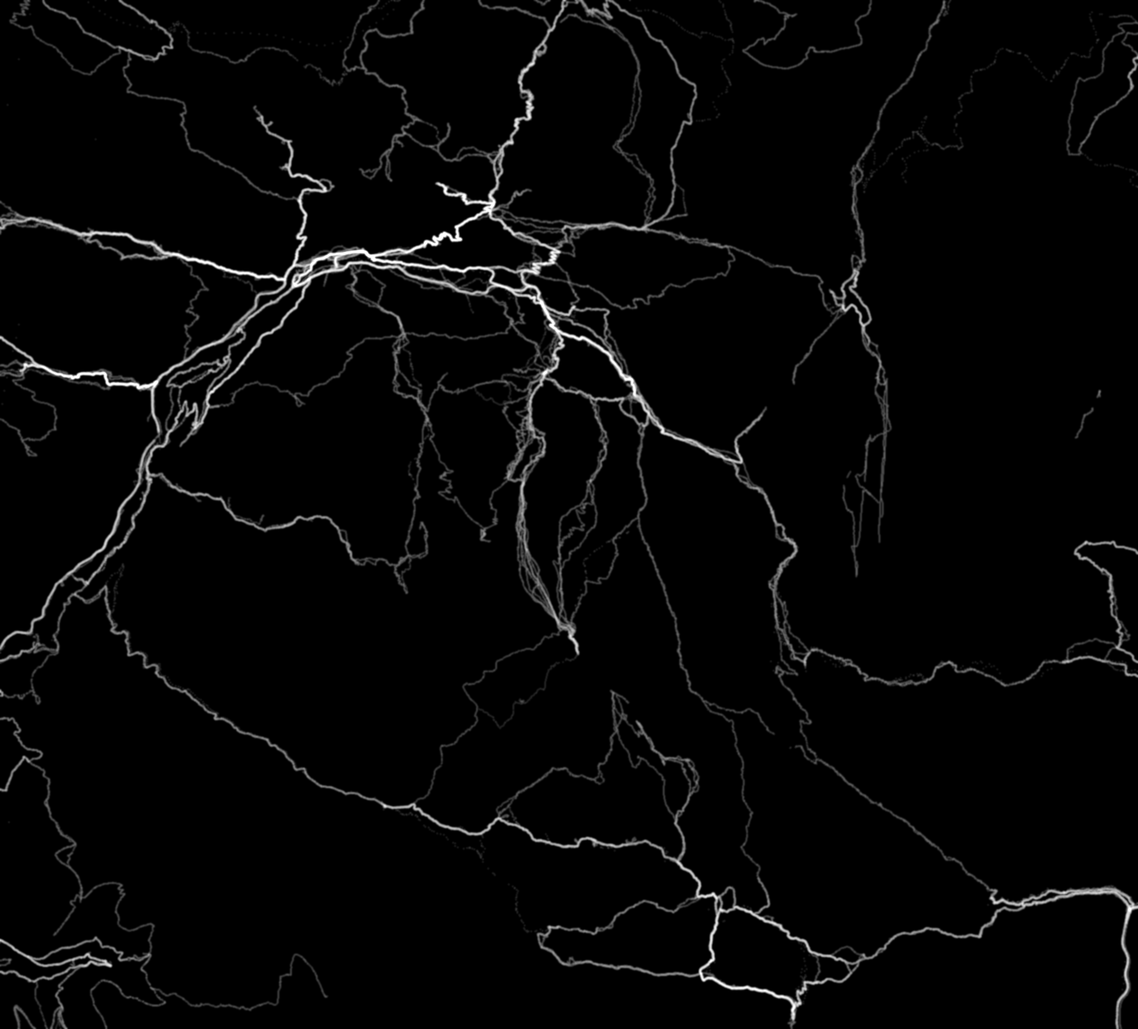
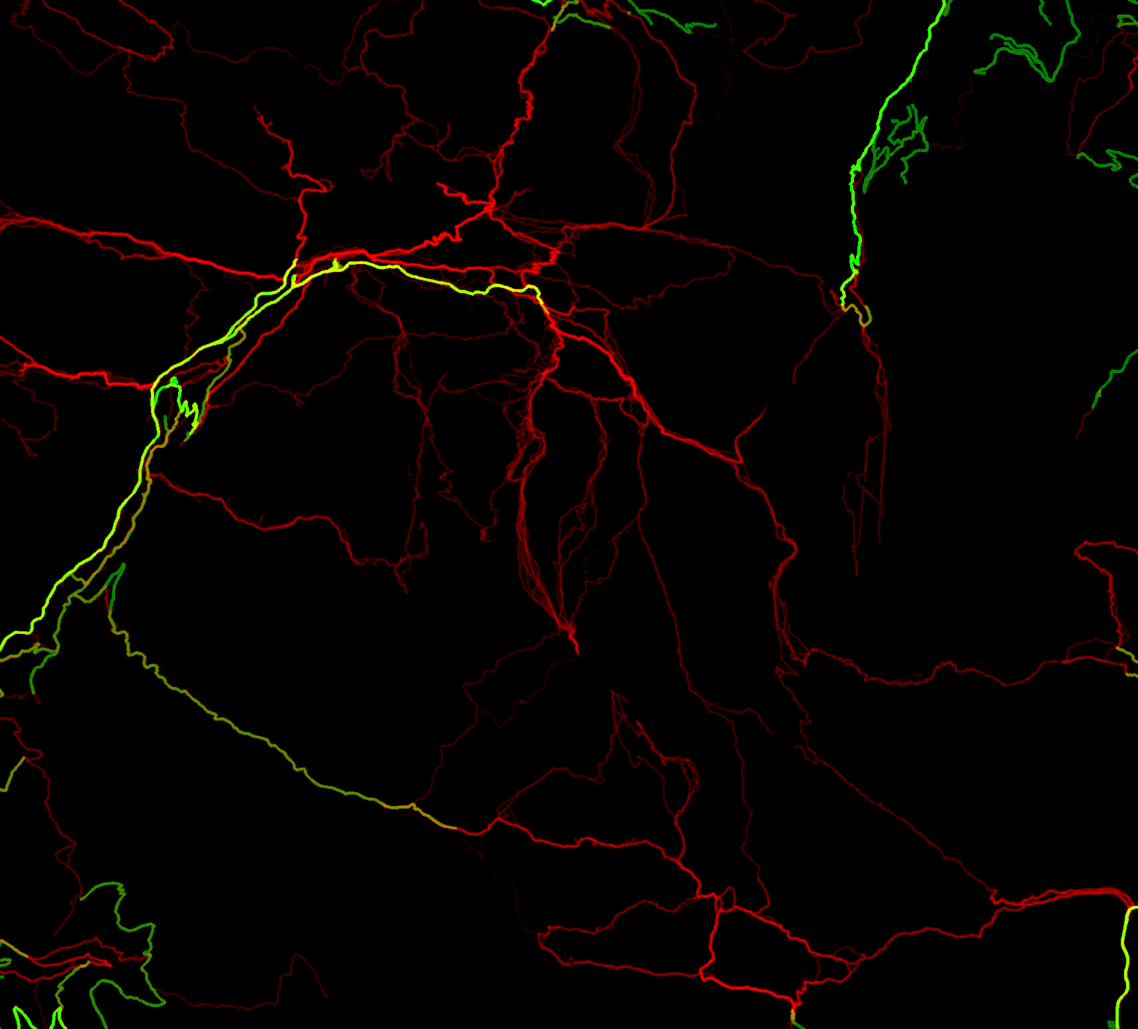
Capa de calor: más fina de lejos, tenue con pocas trazas y amarilla con muchas, carreteras y pistas con su color, toque que dice cuántas trazas pasan y preparada para varias zonas
Claude-Session: https://claude.ai/code/session_01FYGQaz8b8ccFR2s5Q8cSVz

diff --git a/js/main.js b/js/main.js
@@ -1,7 +1,7 @@
 import * as THREE from 'three';
 import { OrbitControls } from 'three/addons/OrbitControls.js';
 import { makeGeo } from './geo.js?v=2';
-import { Terrain } from './terrain.js?v=25';
+import { Terrain, NCALOR } from './terrain.js?v=26';
 import { crearVegetacion } from './vegetacion.js?v=8';
 import { crearCumbres } from './cumbres.js?v=47';
 import { crearBanderines, leerHechos, guardarHechos } from './banderines.js?v=5';
@@ -16,7 +16,7 @@ import { crearPanorama } from './panorama.js?v=9';
 import { crearUbicacion } from './ubicacion.js?v=7';
 import { crearRealidad } from './realidad.js?v=4';
 import { crearSelector } from './selector.js?v=6';
-import { t, EN_INGLES } from './i18n.js?v=10';
+import { t, EN_INGLES } from './i18n.js?v=11';
 import { reglaTexto, reglaCampo } from './i18n_reglas.js?v=4';
 
 const $ = (s) => document.querySelector(s);
@@ -281,8 +281,16 @@ async function boot() {
     }
     return null;
   }
+  const calor = { leer: () => null };   // capa «Por dónde pasa la gente» (se rellena más abajo): trazas y tipo de vía en un punto
+  const textoCalor = (c) => !c ? '' : `<small class="pico-calor">${c.trazas > 1 ? t('Por aquí pasan unas {n} trazas GPS', { n: fmt(c.trazas) }) : t('Por aquí pasa una traza GPS (puede ser una sola persona)')}${c.via ? ` · ${t(c.via === 'carretera' ? 'carretera' : 'pista')}` : ''}</small>`;
   async function nombrePico(cx, cy) {
     const pt = puntoDelRelieve(cx, cy); if (!pt) return;
+    const cal = calor.leer(pt.x, pt.z);
+    if (cal) {   // con la capa encendida, el toque sobre un camino dice cuánta gente pasa (en el punto tocado, no en el pico)
+      clearTimeout(picoTimer); picoSel = { x: pt.x, y: geo.heightAt(pt.x, pt.z), z: pt.z };
+      picoEl.innerHTML = textoCalor(cal); picoEl.hidden = false; picoEl.classList.remove('is-hidden');
+      picoTimer = setTimeout(() => { picoSel = null; picoEl.hidden = true; }, 7000); return;
+    }
     const lista = await cargaPicos(); if (!lista.length) return;
     const dist = Math.hypot(pt.x - camera.position.x, pt.z - camera.position.z);
     const radio = clamp(dist * 0.05, 500, 1800);   // cuanto más lejos está la cámara, más margen al tocar
@@ -1161,20 +1169,39 @@ async function boot() {
   setSun(+(store.get('tresmiles-luz') ?? 3) % SUN.length || 0);   // por defecto, la hora real
   setInterval(() => { if (S.sun === 3) setSun(3); }, 60e3);
 
-  // — «Por dónde pasa la gente»: mapa de calor de las trazas GPS públicas de OpenStreetMap (tools/build_calor.py), pintado sobre el relieve —
-  // ayuda a ver los caminos más pisados (por ejemplo, para volver a una senda conocida si te sales de la ruta); no dice si un paso es seguro
+  // — «Por dónde pasa la gente»: mapa de calor de las trazas GPS públicas de OpenStreetMap (tools/build_calor.py), pintado sobre el relieve por zonas —
+  // ayuda a ver los caminos más pisados (por ejemplo, para volver a una senda conocida si te sales de la ruta); no dice si un paso es seguro.
+  // Cada PNG lleva en rojo la densidad (log de las trazas) y en verde el tipo de vía de OSM (carretera / pista): las carreteras se dicen, no se quitan.
   fetch(`data/calor/index.json?dv=${window.DATOS_V || 0}`).then((r) => (r.ok ? r.json() : null)).then((idx) => {
-    const z = idx && Object.values(idx)[0]; if (!z) return;   // de momento, una zona (macizo del Aneto)
+    const zonas = Object.values(idx ?? {}).slice(0, NCALOR); if (!zonas.length) return;
     const b = $('#btn-calor'); b.hidden = false;
-    const [w, s, e, n] = z.caja, a = geo.toXZ(w, n), c = geo.toXZ(e, s), K = terrain.clima;
-    K.uCalorB.value.set(a.x, a.z, c.x, c.z);
+    const K = terrain.clima, lienzo = document.createElement('canvas'), cx = lienzo.getContext('2d', { willReadFrequently: true }); lienzo.width = lienzo.height = 9;
+    zonas.forEach((z, i) => { const [w, s, e, n] = z.caja, a = geo.toXZ(w, n), c = geo.toXZ(e, s); z.b = [a.x, a.z, c.x, c.z]; K.uCalorB.value[i].set(...z.b); });
     let on = false, cargando = null, tf = null;
+    const carga = () => (cargando ??= Promise.all(zonas.map((z, i) => new Promise((res) => {
+      const img = new Image(); img.onload = () => { const tx = new THREE.Texture(img); tx.colorSpace = THREE.NoColorSpace; tx.needsUpdate = true; K.uCalor.value[i] = tx; z.img = img; res(); }; img.onerror = () => res();
+      img.src = `${z.png}?dv=${window.DATOS_V || 0}`;
+    }))));
+    // lo que hay en un punto: trazas (máximo en ±40 m, el dedo no es preciso) y tipo de vía
+    calor.leer = (x, z0) => {
+      if (!on) return null;
+      for (const z of zonas) {
+        const [x0, zz0, x1, zz1] = z.b; if (!z.img || x < x0 || x > x1 || z0 < zz0 || z0 > zz1) continue;
+        const u = Math.round((x - x0) / (x1 - x0) * z.img.width) - 4, v = Math.round((z0 - zz0) / (zz1 - zz0) * z.img.height) - 4;
+        cx.clearRect(0, 0, 9, 9); cx.drawImage(z.img, u, v, 9, 9, 0, 0, 9, 9);
+        const d = cx.getImageData(0, 0, 9, 9).data; let r = 0, g = 0;
+        for (let k = 0; k < d.length; k += 4) if (d[k] > r) { r = d[k]; g = d[k + 1]; }
+        if (r < 12) return null;
+        return { trazas: Math.max(1, Math.round(Math.expm1(r / 255 * z.escala) / 2.2)), via: g > 190 ? 'carretera' : g > 64 ? 'pista' : null };
+      }
+      return null;
+    };
     const fundido = (to) => { cancelAnimationFrame(tf); const v0 = K.uCalorK.value, t0 = performance.now(); const paso = (t) => { const k = Math.min(1, (t - t0) / 600); K.uCalorK.value = v0 + (to - v0) * k; COLOR_RUTA.actual.lerpColors(COLOR_RUTA.naranja, COLOR_RUTA.verde, K.uCalorK.value); if (k < 1) tf = requestAnimationFrame(paso); }; tf = requestAnimationFrame(paso); };
     const pon = async (v) => {
       on = v; b.setAttribute('aria-pressed', on); store.set('tresmiles-calor', on ? '1' : '0');
-      if (on && !K.uCalor.value) { cargando ??= new THREE.TextureLoader().loadAsync(`${z.png}?dv=${window.DATOS_V || 0}`).then((tx) => { tx.colorSpace = THREE.NoColorSpace; K.uCalor.value = tx; }).catch(() => {}); await cargando; }
+      if (on) await carga();
       if (on !== v) return;
-      fundido(on && K.uCalor.value ? 1 : 0);
+      fundido(on ? 1 : 0);
     };
     b.addEventListener('click', () => { sonido.fx('toque'); pon(!on); b.classList.add('show-tip'); clearTimeout(b._t); b._t = setTimeout(() => b.classList.remove('show-tip'), 1600); });
     if (store.get('tresmiles-calor') === '1') pon(true);
@@ -1327,7 +1354,7 @@ async function boot() {
       <h3>Visits</h3>
       <p>This website uses <a href="https://www.goatcounter.com" target="_blank" rel="noopener">GoatCounter</a>, a visit counter without cookies that stores no personal data and does not follow you around other websites: it only counts how many times each page is opened.</p>
       <h3>Where people go</h3>
-      <p>The footprints button lights up, in orange and yellow, the places where many people have passed with a GPS (for now, around the Aneto). It is made from the public GPS traces that people upload to <a href="https://www.openstreetmap.org/traces" target="_blank" rel="noopener">© OpenStreetMap</a>: the brighter, the more traces. It helps you spot the most trodden paths, for example to get back to a known trail if you leave your route. <b>It does not say whether a passage is safe</b>: there are traces across glaciers, snowfields and gullies, and from people who also got lost. A faint glow can be a single person.</p>
+      <p>The footprints button lights up the places where people have passed with a GPS: faint orange for a few traces and yellow for many. Roads are shown in greyish blue and dirt tracks in sand, because many people also record GPS in the car. Tap a path to see how many traces pass there; while it is on, the example route turns green. It is made from the public GPS traces that people upload to <a href="https://www.openstreetmap.org/traces" target="_blank" rel="noopener">© OpenStreetMap</a>: the brighter, the more traces. It helps you spot the most trodden paths, for example to get back to a known trail if you leave your route. <b>It does not say whether a passage is safe</b>: there are traces across glaciers, snowfields and gullies, and from people who also got lost. A faint glow can be a single person.</p>
       <h3>Safety</h3>
       <p>This website does not replace a guidebook, a conditions report or experience in high mountains. Always check the forecast and the state of the route before setting out.</p>`;
       return;
@@ -1368,7 +1395,7 @@ async function boot() {
       <h3>Visitas</h3>
       <p>Esta web usa <a href="https://www.goatcounter.com" target="_blank" rel="noopener">GoatCounter</a>, un contador de visitas sin cookies que no guarda datos personales ni te sigue por otras webs: solo cuenta cuántas veces se abre cada página.</p>
       <h3>Por dónde pasa la gente</h3>
-      <p>El botón de las huellas ilumina en naranja y amarillo los sitios por donde ha pasado mucha gente con GPS (de momento, en el entorno del Aneto). Está hecho con las trazas GPS públicas que la gente sube a <a href="https://www.openstreetmap.org/traces" target="_blank" rel="noopener">© OpenStreetMap</a>: cuanto más brilla, más trazas. Sirve para ver los caminos más pisados, por ejemplo para volver a una senda conocida si te sales de la ruta. <b>No dice si un paso es seguro</b>: hay trazas por glaciares, neveros y canales, y de gente que también se perdió. Un brillo débil puede ser una sola persona.</p>
+      <p>El botón de las huellas ilumina los sitios por donde ha pasado gente con GPS: naranja tenue si son pocas trazas y amarillo si son muchas. Las carreteras se ven en azul grisáceo y las pistas en color arena, porque mucha gente graba el GPS también en el coche. Tocando un camino dice cuántas trazas pasan por allí, y mientras está encendido, la ruta de ejemplo se pinta en verde. Está hecho con las trazas GPS públicas que la gente sube a <a href="https://www.openstreetmap.org/traces" target="_blank" rel="noopener">© OpenStreetMap</a>: cuanto más brilla, más trazas. Sirve para ver los caminos más pisados, por ejemplo para volver a una senda conocida si te sales de la ruta. <b>No dice si un paso es seguro</b>: hay trazas por glaciares, neveros y canales, y de gente que también se perdió. Un brillo débil puede ser una sola persona.</p>
       <h3>Seguridad</h3>
       <p>Esta web no sustituye a una guía, a un parte de condiciones ni a la experiencia en alta montaña. Consulta siempre la previsión y el estado de la ruta antes de salir.</p>`;
   }

diff --git a/js/terrain.js b/js/terrain.js
@@ -1,6 +1,8 @@
 import * as THREE from 'three';
 import { EXAG } from './geo.js';
 
+export const NCALOR = 8;   // zonas del mapa de calor (tools/build_calor.py)
+const CALOR_ZONAS = Array.from({ length: NCALOR }, (_, i) => `{ vec4 b = uCalorB[${i}]; vec2 u = (vWPos.xz - b.xy) / (b.zw - b.xy); if (u.x > 0. && u.x < 1. && u.y > 0. && u.y < 1.) { vec3 tc = texture2D(uCalor[${i}], vec2(u.x, 1. - u.y)).rgb; if (tc.r > ct.x) ct = tc.rg; } }`).join('\n  ');
 const SKIRT = 160; // faldón bajo los bordes de cada bloque para ocultar grietas entre niveles de detalle
 const MAX_HI = 8;  // texturas de alta resolución simultáneas
 const MAX_DESCARGAS = 4;   // alturas que se piden a la vez
@@ -14,7 +16,7 @@ uniform float uOrto; uniform sampler2D uSat; uniform vec4 uPb; uniform vec3 uOA,
 uniform sampler2D uCover; uniform float uRocaL; uniform vec3 uRocaT; uniform float uHasCover; uniform float uOct; uniform float uBump;
 uniform sampler2D uGran; uniform float uGranK; uniform float uGranM;   // granito escaneado en la malla fina de las cimas de granito (uGranK = 1), uGranM: su luminancia media
 uniform float uCota, uCotaK, uAcum, uMoj, uCliR; uniform vec3 uCliC;   // tiempo real (js/tiempo.js): cota de nieve en todo el mapa, nieve que cuaja y suelo mojado alrededor de la cumbre abierta
-uniform sampler2D uCalor; uniform vec4 uCalorB; uniform float uCalorK;   // «Por dónde pasa la gente»: densidad de trazas GPS públicas de OSM (data/calor), su recuadro en x/z y la intensidad de la capa
+uniform sampler2D uCalor[NCALOR]; uniform vec4 uCalorB[NCALOR]; uniform float uCalorK;   // «Por dónde pasa la gente»: por zona, densidad de trazas GPS públicas de OSM y tipo de vía (data/calor), su recuadro en x/z; y la intensidad de la capa
 varying float vRoca; varying vec3 vWPos; varying vec3 vWNrm; varying vec2 vCUv;
 float h31(vec3 p){ p=fract(p*0.3183099+.1); p*=17.; return fract(p.x*p.y*p.z*(p.x+p.y+p.z)); }
 float vn(vec3 x){ vec3 i=floor(x), f=fract(x); f=f*f*(3.-2.*f);
@@ -126,15 +128,19 @@ if (uCotaK + uAcum + uMoj > .001) {
   c2 = mix(c2, c2 * vec3(.66, .70, .74), mj * .55);
   diffuseColor.rgb = c2;
 }
-// capa de calor: cuantas más trazas pasan por un punto, más brillo (naranja → amarillo); también brilla un poco de noche
+// capa de calor: cuantas más trazas pasan por un punto, más brillo (naranja tenue con pocas → amarillo con muchas); carreteras en azul grisáceo y pistas en arena
+// (se dicen, no se quitan); de lejos solo queda el núcleo de los caminos más pisados; también brilla un poco de noche
 if (uCalorK > .001) {
-  vec2 cu = (vWPos.xz - uCalorB.xy) / (uCalorB.zw - uCalorB.xy);
-  if (cu.x > 0. && cu.x < 1. && cu.y > 0. && cu.y < 1.) {
-    float hc = texture2D(uCalor, vec2(cu.x, 1. - cu.y)).r;
-    float ac = smoothstep(.04, .4, hc) * uCalorK;
-    vec3 cc = mix(vec3(1., .33, .06), vec3(1., .93, .55), smoothstep(.5, 1., hc));
-    diffuseColor.rgb = mix(diffuseColor.rgb, cc, ac * .85);
-    totalEmissiveRadiance += cc * ac * .35;
+  vec2 ct = vec2(0.);
+  CALOR_ZONAS
+  if (ct.x > .01) {
+    float dc = distance(vWPos, cameraPosition), lo = mix(.03, .3, smoothstep(2500., 22000., dc));
+    float ac = smoothstep(lo, lo + .3, ct.x) * mix(.72, 1., smoothstep(.2, .7, ct.x)) * mix(1., .65, smoothstep(6000., 28000., dc)) * uCalorK;
+    vec3 cc = mix(vec3(1., .40, .08), vec3(1., .92, .5), smoothstep(.45, .95, ct.x));
+    cc = mix(cc, vec3(.93, .80, .56), step(.3, ct.y) * (1. - step(.75, ct.y)));   // pista
+    cc = mix(cc, vec3(.60, .70, .90), step(.75, ct.y));   // carretera o calle
+    diffuseColor.rgb = mix(diffuseColor.rgb, cc, min(ac * .95, .92));
+    totalEmissiveRadiance += cc * ac * .3;
   }
 }
 `;
@@ -155,7 +161,7 @@ if (uBump > .5) {
 export class Terrain {
   constructor({ scene, meta, store, geo, renderer, base, movil = false }) {
     this.movil = movil; this.coberturas = new Map();
-    this.clima = { uCota: { value: 1e5 }, uCotaK: { value: 0 }, uAcum: { value: 0 }, uMoj: { value: 0 }, uCliR: { value: 3000 }, uCliC: { value: new THREE.Vector3() }, uCalor: { value: null }, uCalorB: { value: new THREE.Vector4(0, 0, 1, 1) }, uCalorK: { value: 0 } };   // compartidos por todos los materiales del relieve
+    this.clima = { uCota: { value: 1e5 }, uCotaK: { value: 0 }, uAcum: { value: 0 }, uMoj: { value: 0 }, uCliR: { value: 3000 }, uCliC: { value: new THREE.Vector3() }, uCalor: { value: Array(NCALOR).fill(null) }, uCalorB: { value: Array.from({ length: NCALOR }, () => new THREE.Vector4(1e9, 1e9, 1e9, 1e9)) }, uCalorK: { value: 0 } };   // compartidos por todos los materiales del relieve
     this.holes = { value: Array.from({ length: 4 }, () => new THREE.Vector4(1e9, 1e9, 1e9, 1e9)) };
     this.meta = meta; this.store = store; this.geo = geo; this.base = base;
     this.group = new THREE.Group(); scene.add(this.group);
@@ -172,8 +178,8 @@ export class Terrain {
       Object.assign(sh.uniforms, u);
       sh.vertexShader = sh.vertexShader.replace('#include <common>', '#include <common>\nattribute float aRoca; varying float vRoca; varying vec3 vWPos; varying vec3 vWNrm; varying vec2 vCUv;')
         .replace('#include <begin_vertex>', '#include <begin_vertex>\nvWPos = (modelMatrix * vec4(transformed, 1.)).xyz; vWNrm = normal; vCUv = uv; vRoca = aRoca;');
-      sh.fragmentShader = sh.fragmentShader.replace('#include <common>', '#include <common>\n' + GLSL_PARS)
-        .replace('#include <map_fragment>', GLSL_HOLES + '#include <map_fragment>\n' + GLSL_COLOR)
+      sh.fragmentShader = sh.fragmentShader.replace('#include <common>', '#include <common>\n#define NCALOR ' + NCALOR + '\n' + GLSL_PARS)
+        .replace('#include <map_fragment>', GLSL_HOLES + '#include <map_fragment>\n' + GLSL_COLOR.replace('CALOR_ZONAS', CALOR_ZONAS))
         .replace('#include <normal_fragment_maps>', '#include <normal_fragment_maps>\n' + GLSL_BUMP);
     };
     mat.customProgramCacheKey = () => 'terreno-detalle-' + (this.movil ? 'm' : 'd');

diff --git a/index.html b/index.html
@@ -3,7 +3,7 @@
 <head>
   <meta charset="utf-8">
   <script>/* versión publicada: si el navegador muestra una copia vieja de esta página, recarga sola con la nueva (version.json no se guarda en caché) */
-  window.WEB_V = 356;
+  window.WEB_V = 357;
   fetch('version.json?t=' + Date.now(), { cache: 'no-store' }).then((r) => r.json()).then((j) => {
     if (!(j.v > window.WEB_V)) return;
     const u = new URL(location.href); if (u.searchParams.get('r') === String(j.v)) return;   // ya se pidió esa versión: no repetir
@@ -16,7 +16,7 @@
   <link rel="preload" href="fonts/CormorantGaramond-VF.woff2" as="font" type="font/woff2" crossorigin>
   <link rel="preload" href="fonts/BarlowSemiCondensed-Medium.woff2" as="font" type="font/woff2" crossorigin>
   <link rel="icon" href="img/icono.svg" type="image/svg+xml">
-  <link rel="stylesheet" href="css/style.css?v=69">
+  <link rel="stylesheet" href="css/style.css?v=70">
   <link rel="stylesheet" href="css/cine.css?v=6">
   <script>
     // introducción: solo la primera vez (o con ?intro / «Ver introducción»); nunca con ?directo ni, salvo que se pida, con
@@ -129,9 +129,9 @@
   <!-- la cuenta de GoatCounter es compartida con otras webs: Tresmiles se apunta siempre como «/tresmiles» (sin ?… ni la dirección), para poder contarla aparte -->
   <script>window.goatcounter = { path: () => '/tresmiles' };</script>
   <script data-goatcounter="https://skyllion.goatcounter.com/count" async src="https://gc.zgo.at/count.js"></script>
-  <script>window.DATOS_V = 220;</script>
-  <script type="module" src="js/i18n.js?v=10"></script>
-  <script type="module" src="js/main.js?v=356"></script>
+  <script>window.DATOS_V = 221;</script>
+  <script type="module" src="js/i18n.js?v=11"></script>
+  <script type="module" src="js/main.js?v=357"></script>
   <script defer src="js/cine.js?v=7"></script>
 </body>
 </html>

diff --git a/js/i18n.js b/js/i18n.js
@@ -89,7 +89,7 @@ const EN = {
   '{n} de {t} cumbres': '{n} of {t} summits',
   // — selector de cumbres —
   'Cerrar el selector': 'Close the selector', 'Qué cumbres ver': 'Which summits to show', 'Menos de 3.000': 'Below 3,000', 'Más altas': 'Highest',
-  'Por dónde pasa la gente': 'Where people go', 'discutida': 'disputed', 'Cimas secundarias': 'Secondary summits', 'Las más cercanas al centro del mapa': 'Closest to the centre of the map', 'Las más altas': 'The highest',
+  'Por dónde pasa la gente': 'Where people go', 'Por aquí pasan unas {n} trazas GPS': 'About {n} GPS traces pass here', 'Por aquí pasa una traza GPS (puede ser una sola persona)': 'One GPS trace passes here (it may be a single person)', 'carretera': 'road', 'pista': 'dirt track', 'discutida': 'disputed', 'Cimas secundarias': 'Secondary summits', 'Las más cercanas al centro del mapa': 'Closest to the centre of the map', 'Las más altas': 'The highest',
   'Ninguna cumbre con estos filtros.': 'No summits with these filters.', 'Todavía no has marcado ninguna cumbre como subida.': 'You have not marked any summit as climbed yet.',
   'Ninguna cumbre coincide con «{q}».': 'No summit matches “{q}”.', ' Prueba a quitar los filtros.': ' Try clearing the filters.',
   'Con filtros: {n} de {t} cumbres': 'Filtered: {n} of {t} summits', 'también «{n}»': 'also “{n}”',

diff --git a/css/style.css b/css/style.css
@@ -414,6 +414,7 @@ body.ficha-plegada .hito-btn i { transform: rotate(45deg) scale(1.35); }
 /* nombre de un pico tocado en el mapa (OpenStreetMap) */
 .pico-osm { position: absolute; left: 0; top: 0; z-index: 4; pointer-events: none; translate: -50% calc(-100% - 12px); text-align: center; background: rgba(36,48,44,.92); color: var(--cream); padding: 6px 12px; box-shadow: 0 6px 18px rgba(0,0,0,.35); will-change: transform; }
 .pico-osm::after { content: ""; position: absolute; left: 50%; bottom: -12px; width: 10px; height: 10px; margin-left: -5px; border-radius: 50%; background: #ffa930; box-shadow: 0 0 0 2px var(--cream); }
+.pico-calor { display: block; max-width: 15rem; font: 500 .8rem/1.35 var(--cond); letter-spacing: .02em; }   /* lo que dice la capa de calor en el punto tocado */
 .pico-osm b { display: block; font: 600 .74rem/1.25 var(--cond); letter-spacing: .14em; text-transform: uppercase; }
 .pico-osm i { display: block; font: 500 .72rem var(--sans); font-style: normal; opacity: .85; }
 .pico-osm.is-hidden, .pico-osm[hidden] { display: none; }

diff --git a/js/panorama.js b/js/panorama.js
@@ -2,7 +2,7 @@
 // Cálculo propio con el relieve de 120 m (nivel 4 de los bloques, ~1 MB, se pide la primera vez); no toca el relieve del mapa. La visibilidad de cada cumbre se decide con una línea
 // de visión sobre ese relieve (con curvatura de la Tierra y refracción media), con tolerancia porque la malla de 120 m redondea los picos. Es orientativo.
 // Modo brújula: el panorama gira con el móvil y un nombre arriba dice a qué cumbre apuntas (DeviceOrientation; en Android «absolute», en iPhone webkitCompassHeading).
-import { t, EN_INGLES } from './i18n.js?v=10';
+import { t, EN_INGLES } from './i18n.js?v=11';
 const RT = 6371000, K_REF = 0.13, CURV = (1 - K_REF) / (2 * RT);
 const BANDAS = [4000, 12000, 30000, 60000, 1e9];   // límites de distancia de las capas (m), de cerca a lejos
 const COLORES = ['#2f4c45', '#4a6a60', '#6d8b85', '#93a9ac', '#b8c7ce'];   // de cerca a lejos (más lejos = más claro, como la bruma)

diff --git a/js/selector.js b/js/selector.js
@@ -1,6 +1,6 @@
 // Selector de cumbres (el del inicio y el del mapa): buscador sin tildes que mira también los nombres alternativos,
 // macizos plegados de oeste a este con su número, principales primero y secundarias plegadas dentro de cada macizo.
-import { t as tr, EN_INGLES } from './i18n.js?v=10';   // «tr»: aquí «t» es nombre de variable en muchas funciones
+import { t as tr, EN_INGLES } from './i18n.js?v=11';   // «tr»: aquí «t» es nombre de variable en muchas funciones
 const esc = (s) => String(s ?? '').replace(/[&<>"']/g, (c) => ({ '&': '&amp;', '<': '&lt;', '>': '&gt;', '"': '&quot;', "'": '&#39;' }[c]));
 const fmt = (n) => new Intl.NumberFormat(EN_INGLES ? 'en-GB' : 'es-ES', { useGrouping: 'always' }).format(n);
 

diff --git a/js/ruta.js b/js/ruta.js
@@ -1,6 +1,6 @@
 import * as THREE from 'three';
 import { crearMontaneroAnim as crearMontanero } from './montanero_anim.js?v=7';
-import { t as tr } from './i18n.js?v=10';
+import { t as tr } from './i18n.js?v=11';
 
 // Recorrido (track GPX simplificado) dibujado sobre el relieve, con perfil de altura interactivo y vuelo.
 // color de la línea de ruta, compartido por todas: naranja; pasa a verde vivo con la capa «Por dónde pasa la gente» (naranja) para no confundirse con ella

diff --git a/js/ubicacion.js b/js/ubicacion.js
@@ -3,7 +3,7 @@
 // Botón: 1.º toque, localizar (la cámara va al punto); 2.º, seguir con la brújula; 3.º, apagar. Mover el mapa con el dedo deja de seguir.
 import * as THREE from 'three';
 import { leeOrientacion } from './panorama.js?v=9';
-import { t, EN_INGLES } from './i18n.js?v=10';
+import { t, EN_INGLES } from './i18n.js?v=11';
 
 const RAD = Math.PI / 180;
 const km = (lat1, lon1, lat2, lon2) => {   // distancia en línea recta sobre la Tierra (km)

diff --git a/tools/build_calor.py b/tools/build_calor.py
@@ -1,58 +1,90 @@
 #!/usr/bin/env python3
 """Mapa de calor «Por dónde pasa la gente» a partir de las trazas GPS públicas de OpenStreetMap.
-Entrada: los GPX que devuelve la API de OSM (api/0.6/trackpoints?bbox=…&page=N), bajados en tools/datos/calor/<zona>_<página>.gpx.
+Entrada: los GPX que devuelve la API de OSM (api/0.6/trackpoints?bbox=…&page=N), bajados con tools/bajar_calor.sh en tools/datos/calor/<zona>_<página>.gpx.
 Cada traza identificable se dibuja como línea entre puntos seguidos (si no están a más de 120 m: saltos del GPS) y cuenta una sola vez por píxel,
 así el valor del píxel es «cuántas trazas pasan por aquí», no cuántos puntos. Las trazas privadas llegan como puntos sueltos sin orden: suman solo su punto.
-Salida: data/calor/<zona>.png (gris de 8 bits, 10 m por píxel, norte arriba; valor = log de las trazas, 255 = el máximo de la zona) y data/calor/index.json
-con el recuadro (lon/lat) de cada zona. Datos © colaboradores de OpenStreetMap.
-Uso: python3 tools/build_calor.py aneto 0.55 42.58 0.76 42.72"""
-import glob, json, math, os, sys, xml.etree.ElementTree as ET
+Salida: data/calor/<zona>.png (RGB, 10 m por píxel, norte arriba) y data/calor/index.json (recuadro lon/lat y escala de cada zona).
+  R: log de las trazas por píxel, normalizado (trazas ≈ expm1(R / 255 · escala) / 2,2).
+  G: tipo de vía de OpenStreetMap: 255 carretera o calle, 128 pista, 0 sendero o monte (la capa lo dice con otro color: mucha gente graba el GPS en el coche).
+Datos © colaboradores de OpenStreetMap.
+Uso: python3 tools/build_calor.py [zona ...]   (sin zonas: todas las de ZONAS que tengan GPX)"""
+import glob, json, math, os, sys, time, urllib.parse, urllib.request, xml.etree.ElementTree as ET
 import numpy as np
-from PIL import Image
+from PIL import Image, ImageDraw
 from scipy.ndimage import gaussian_filter
 
 ROOT = os.path.join(os.path.dirname(os.path.abspath(__file__)), '..')
-zona, w, s, e, n = sys.argv[1], *map(float, sys.argv[2:6])
+DATOS = os.path.join(ROOT, 'tools/datos/calor')
+ZONAS = {'aneto': (0.55, 42.58, 0.76, 42.72), 'benasque': (0.40, 42.55, 0.55, 42.74), 'posets': (0.25, 42.55, 0.40, 42.75), 'perdido-e': (0.05, 42.60, 0.25, 42.76),
+         'perdido-o': (-0.06, 42.60, 0.05, 42.76), 'vignemale': (-0.18, 42.64, -0.06, 42.82), 'balaitus': (-0.38, 42.72, -0.18, 42.88)}   # las mismas que tools/bajar_calor.sh
 PX = 10.0   # metros por píxel
-mLat, mLon = 111132, 111320 * math.cos(math.radians((s + n) / 2))
-W, H = int((e - w) * mLon / PX), int((n - s) * mLat / PX)
-cuenta = np.zeros((H, W), np.uint16)
 NS = '{http://www.topografix.com/GPX/1/0}'
+CARRETERA = {'motorway', 'trunk', 'primary', 'secondary', 'tertiary', 'unclassified', 'residential', 'living_street', 'service', 'motorway_link', 'trunk_link', 'primary_link', 'secondary_link', 'tertiary_link'}
+UA = {'User-Agent': 'tresmiles/1.0 (proyecto educativo)'}
 
-def px(lat, lon): return (lon - w) * mLon / PX, (n - lat) * mLat / PX
+def vias(zona, w, s, e, n):
+    """Carreteras y pistas de OSM en el recuadro (se guardan en tools/datos/calor/<zona>_vias.json)."""
+    f = os.path.join(DATOS, f'{zona}_vias.json')
+    if not os.path.exists(f):
+        q = f'[out:json][timeout:180];way["highway"~"^({"|".join(CARRETERA)}|track)$"]({s},{w},{n},{e});out geom tags;'
+        for i in range(6):
+            for h in ('https://overpass-api.de/api/interpreter', 'https://overpass.kumi.systems/api/interpreter', 'https://overpass.private.coffee/api/interpreter'):
+                try:
+                    d = urllib.request.urlopen(urllib.request.Request(h, data=urllib.parse.urlencode({'data': q}).encode(), headers=UA), timeout=200).read()
+                    open(f, 'wb').write(d); break
+                except Exception as ex: print('  reintento', h.split('/')[2], ex, flush=True); time.sleep(8 * (i + 1))
+            else: continue
+            break
+    return json.load(open(f))['elements']
 
-def linea(pts):
-    """Píxeles que pisa la traza (cada uno una vez)."""
-    vis = set()
-    for (x0, y0), (x1, y1) in zip(pts, pts[1:]):
-        d = math.hypot(x1 - x0, y1 - y0)
-        if d * PX > 120: continue
-        for k in range(int(d) + 1):
-            t = k / max(d, 1e-9); vis.add((int(y0 + (y1 - y0) * t), int(x0 + (x1 - x0) * t)))
-    for p in pts[-1:]: vis.add((int(p[1]), int(p[0])))
-    return vis
+def hacer(zona):
+    w, s, e, n = ZONAS[zona]
+    mLat, mLon = 111132, 111320 * math.cos(math.radians((s + n) / 2))
+    W, H = int((e - w) * mLon / PX), int((n - s) * mLat / PX)
+    px = lambda lat, lon: ((lon - w) * mLon / PX, (n - lat) * mLat / PX)
+    cuenta = np.zeros((H, W), np.uint16)
 
-trazas = puntos = 0
-for f in sorted(glob.glob(os.path.join(ROOT, 'tools/datos/calor', f'{zona}_*.gpx')), key=lambda f: int(f.rsplit('_', 1)[1][:-4])):
-    try: raiz = ET.parse(f).getroot()
-    except ET.ParseError: print('  mal formado', f); continue
-    for trk in raiz.iter(NS + 'trk'):
-        ident = trk.find(NS + 'url') is not None
-        for seg in trk.iter(NS + 'trkseg'):
-            pts = [px(float(p.get('lat')), float(p.get('lon'))) for p in seg.iter(NS + 'trkpt')]
-            puntos += len(pts)
-            vis = linea(pts) if ident else {(int(y), int(x)) for x, y in pts}
-            ys, xs = zip(*[(y, x) for y, x in vis if 0 <= y < H and 0 <= x < W]) if vis else ((), ())
-            if ys: cuenta[list(ys), list(xs)] += 1
-            trazas += ident
-print(f'{zona}: {trazas} trazas identificables, {puntos} puntos, {W}×{H} px, máximo {cuenta.max()} trazas en un píxel')
+    def linea(pts):
+        vis = set()
+        for (x0, y0), (x1, y1) in zip(pts, pts[1:]):
+            d = math.hypot(x1 - x0, y1 - y0)
+            if d * PX > 120: continue
+            for k in range(int(d) + 1):
+                t = k / max(d, 1e-9); vis.add((int(y0 + (y1 - y0) * t), int(x0 + (x1 - x0) * t)))
+        for p in pts[-1:]: vis.add((int(p[1]), int(p[0])))
+        return vis
 
-# un poco de difuminado (el GPS tiene 5-15 m de error) y escala logarítmica: una traza ya se ve, cien se ven mucho más
-v = gaussian_filter(cuenta.astype(np.float32), 1.2)
-v = np.log1p(v * 2.2); v = np.clip(v / max(np.percentile(v[v > 0], 99.7), 1e-6), 0, 1)
-os.makedirs(os.path.join(ROOT, 'data/calor'), exist_ok=True)
-Image.fromarray((v * 255).astype(np.uint8), 'L').save(os.path.join(ROOT, 'data/calor', f'{zona}.png'), optimize=True)
-I = os.path.join(ROOT, 'data/calor/index.json')
-idx = json.load(open(I)) if os.path.exists(I) else {}
-idx[zona] = {'caja': [w, s, e, n], 'trazas': trazas, 'png': f'data/calor/{zona}.png'}
-json.dump(idx, open(I, 'w'), ensure_ascii=False, indent=1)
+    trazas = puntos = 0
+    gpx = sorted(glob.glob(os.path.join(DATOS, f'{zona}_[0-9]*.gpx')), key=lambda f: int(f.rsplit('_', 1)[1][:-4]))
+    if not gpx: print(zona, 'sin GPX'); return
+    for f in gpx:
+        try: raiz = ET.parse(f).getroot()
+        except ET.ParseError: print('  mal formado', f); continue
+        for trk in raiz.iter(NS + 'trk'):
+            ident = trk.find(NS + 'url') is not None
+            for seg in trk.iter(NS + 'trkseg'):
+                pts = [px(float(p.get('lat')), float(p.get('lon'))) for p in seg.iter(NS + 'trkpt')]
+                puntos += len(pts)
+                vis = linea(pts) if ident else {(int(y), int(x)) for x, y in pts}
+                ys, xs = zip(*[(y, x) for y, x in vis if 0 <= y < H and 0 <= x < W]) if vis else ((), ())
+                if ys: cuenta[list(ys), list(xs)] += 1
+                trazas += ident
+    # un poco de difuminado (el GPS tiene 5-15 m de error) y escala logarítmica: una traza ya se ve, cien se ven mucho más
+    v = gaussian_filter(cuenta.astype(np.float32), 1.2)
+    v = np.log1p(v * 2.2); escala = float(max(np.percentile(v[v > 0], 99.7), 1e-6)); v = np.clip(v / escala, 0, 1)
+    # carreteras (255) y pistas (128), con unos 50 m de ancho para cubrir el error del GPS
+    via = Image.new('L', (W, H), 0); dr = ImageDraw.Draw(via)
+    for el in sorted(vias(zona, w, s, e, n), key=lambda el: el.get('tags', {}).get('highway') != 'track', reverse=False):
+        g = el.get('geometry'); t = el.get('tags', {}).get('highway')
+        if not g: continue
+        dr.line([px(c['lat'], c['lon']) for c in g], fill=128 if t == 'track' else 255, width=5)
+    rgb = np.dstack([(v * 255).astype(np.uint8), np.array(via), np.zeros((H, W), np.uint8)])
+    os.makedirs(os.path.join(ROOT, 'data/calor'), exist_ok=True)
+    Image.fromarray(rgb, 'RGB').save(os.path.join(ROOT, 'data/calor', f'{zona}.png'), optimize=True)
+    I = os.path.join(ROOT, 'data/calor/index.json')
+    idx = json.load(open(I)) if os.path.exists(I) else {}
+    idx[zona] = {'caja': [w, s, e, n], 'trazas': trazas, 'escala': round(escala, 4), 'png': f'data/calor/{zona}.png'}
+    json.dump(dict(sorted(idx.items())), open(I, 'w'), ensure_ascii=False, indent=1)
+    print(f'{zona}: {trazas} trazas identificables, {puntos} puntos, {W}×{H} px, máximo {cuenta.max()} trazas en un píxel')
+
+for z in sys.argv[1:] or ZONAS: hacer(z)
